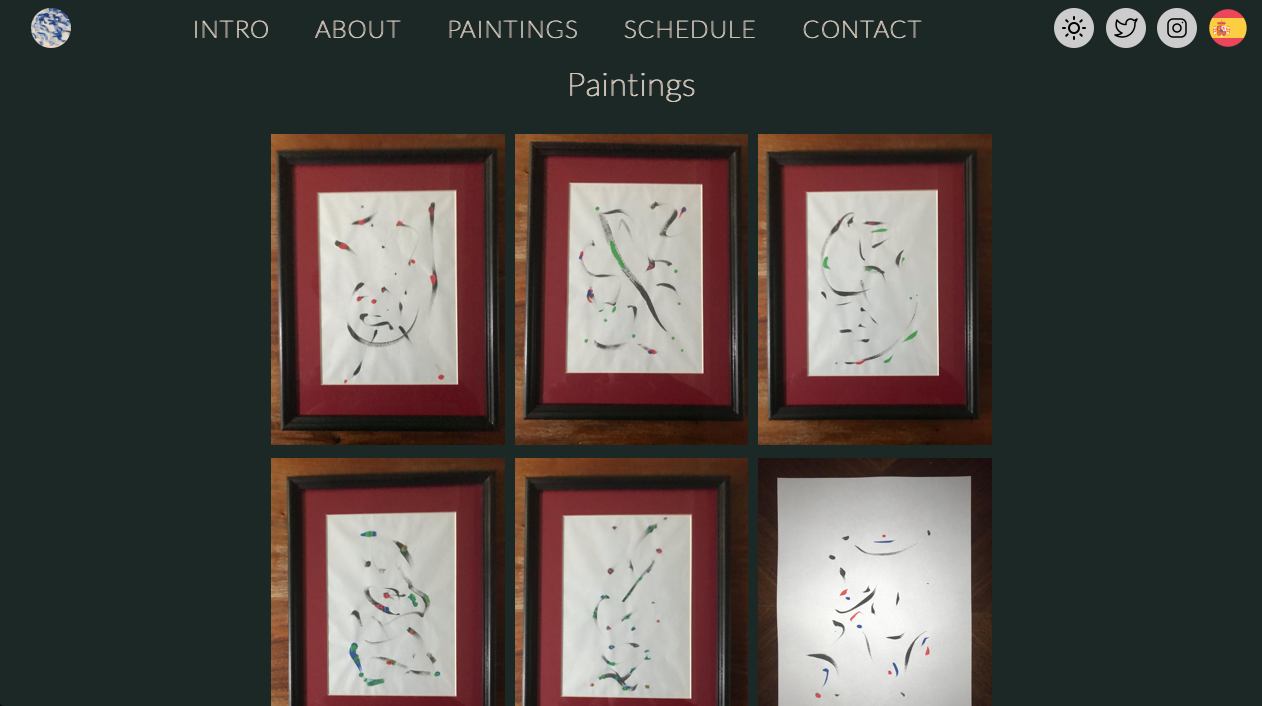
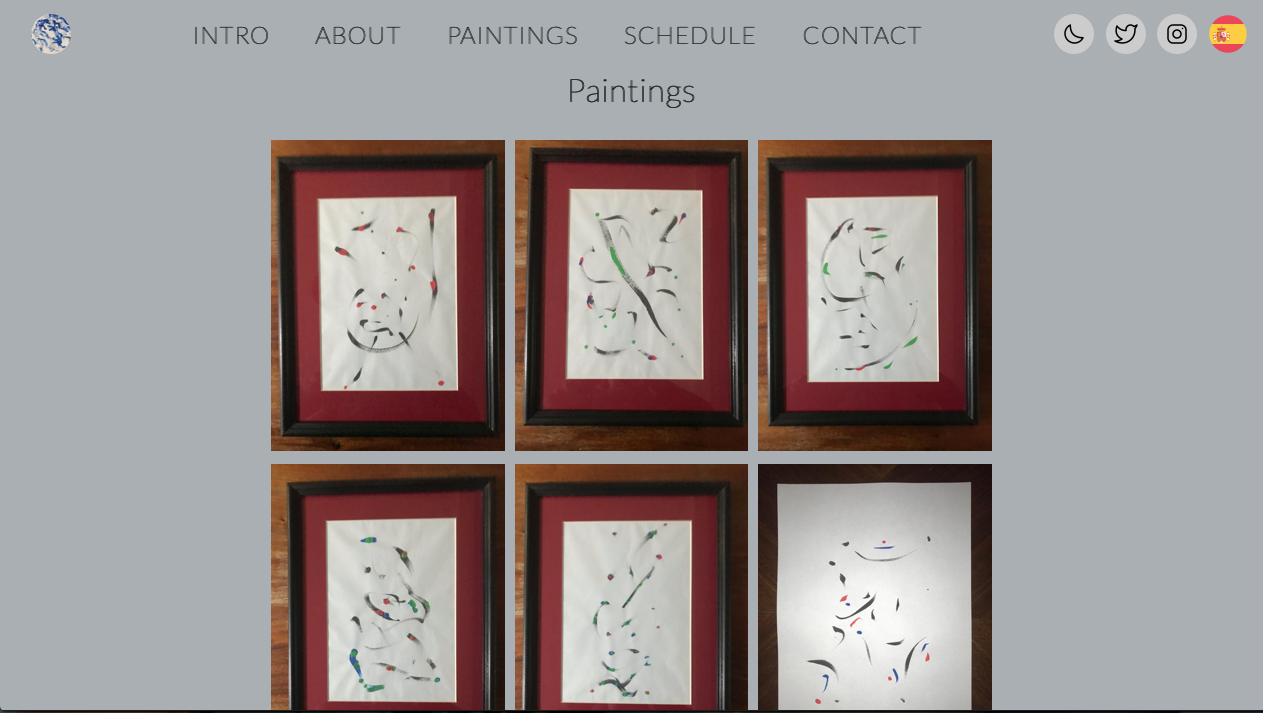
update dp image

diff --git a/src/utils/MisProyectos.js b/src/utils/MisProyectos.js
@@ -5,7 +5,7 @@ const projects = [
     year: 2023,
     month: "nov",
     author: "Brandon Castillo",
-    image: "/projects-img/dp/dreamer-paintings.png",
+    image: "/projects-img/dp/dreamer-paintings-2.png",
     web: "https://dreamer-paintings.vercel.app",
     youtube: "https://www.youtube.com/embed/QorLsTcNgS0?si=cBHNnpnPMjbMQ9EP",
     video: "https://www.youtube.com/watch?v=QorLsTcNgS0",
